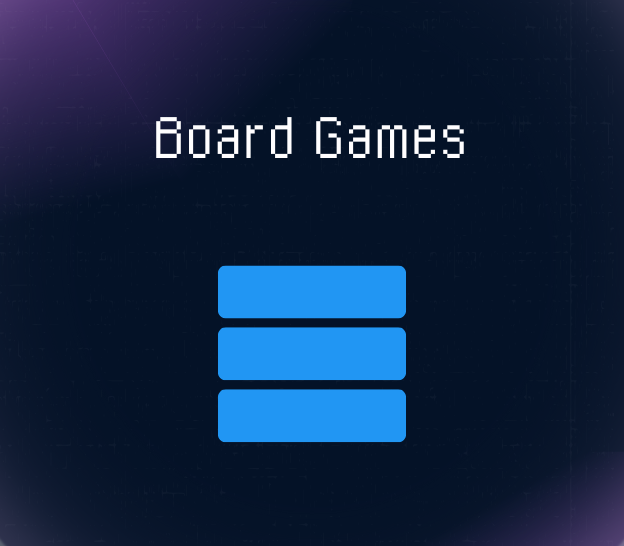
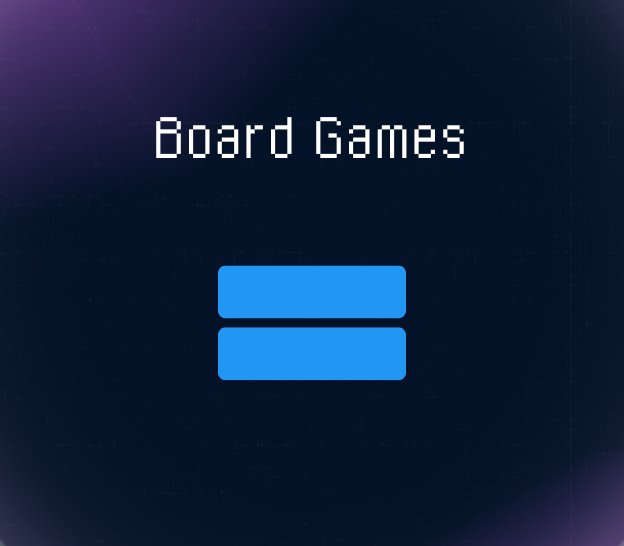
atualizando imagem de fundo da tela inicial

Changed region(s): [[0.3349, 0.685, 0.6699, 0.8095]]

diff --git a/src/Interface/Interface_Tela_Inicial.cpp b/src/Interface/Interface_Tela_Inicial.cpp
@@ -14,7 +14,7 @@ Interface_Tela_Inicial::Interface_Tela_Inicial(){
 Interface_Tela_Inicial::~Interface_Tela_Inicial(){}
 
 void Interface_Tela_Inicial::Set_Opcoes() {
-    opcoes_de_escolha = {"Jogar", "Dados", "Manual"};
+    opcoes_de_escolha = {"Jogar", "Dados"};
 }
 
 void Interface_Tela_Inicial::Definicoes_Espacamento_Janela() {
@@ -67,7 +67,7 @@ void Interface_Tela_Inicial::Loop_Events(){
             }
 
             if(sf::Keyboard::isKeyPressed(sf::Keyboard::Down) && !pressed){
-                if(posicao < 2){
+                if(posicao < 1){
                     som_selecao.play();
                     ++posicao;
                     pressed = true;
